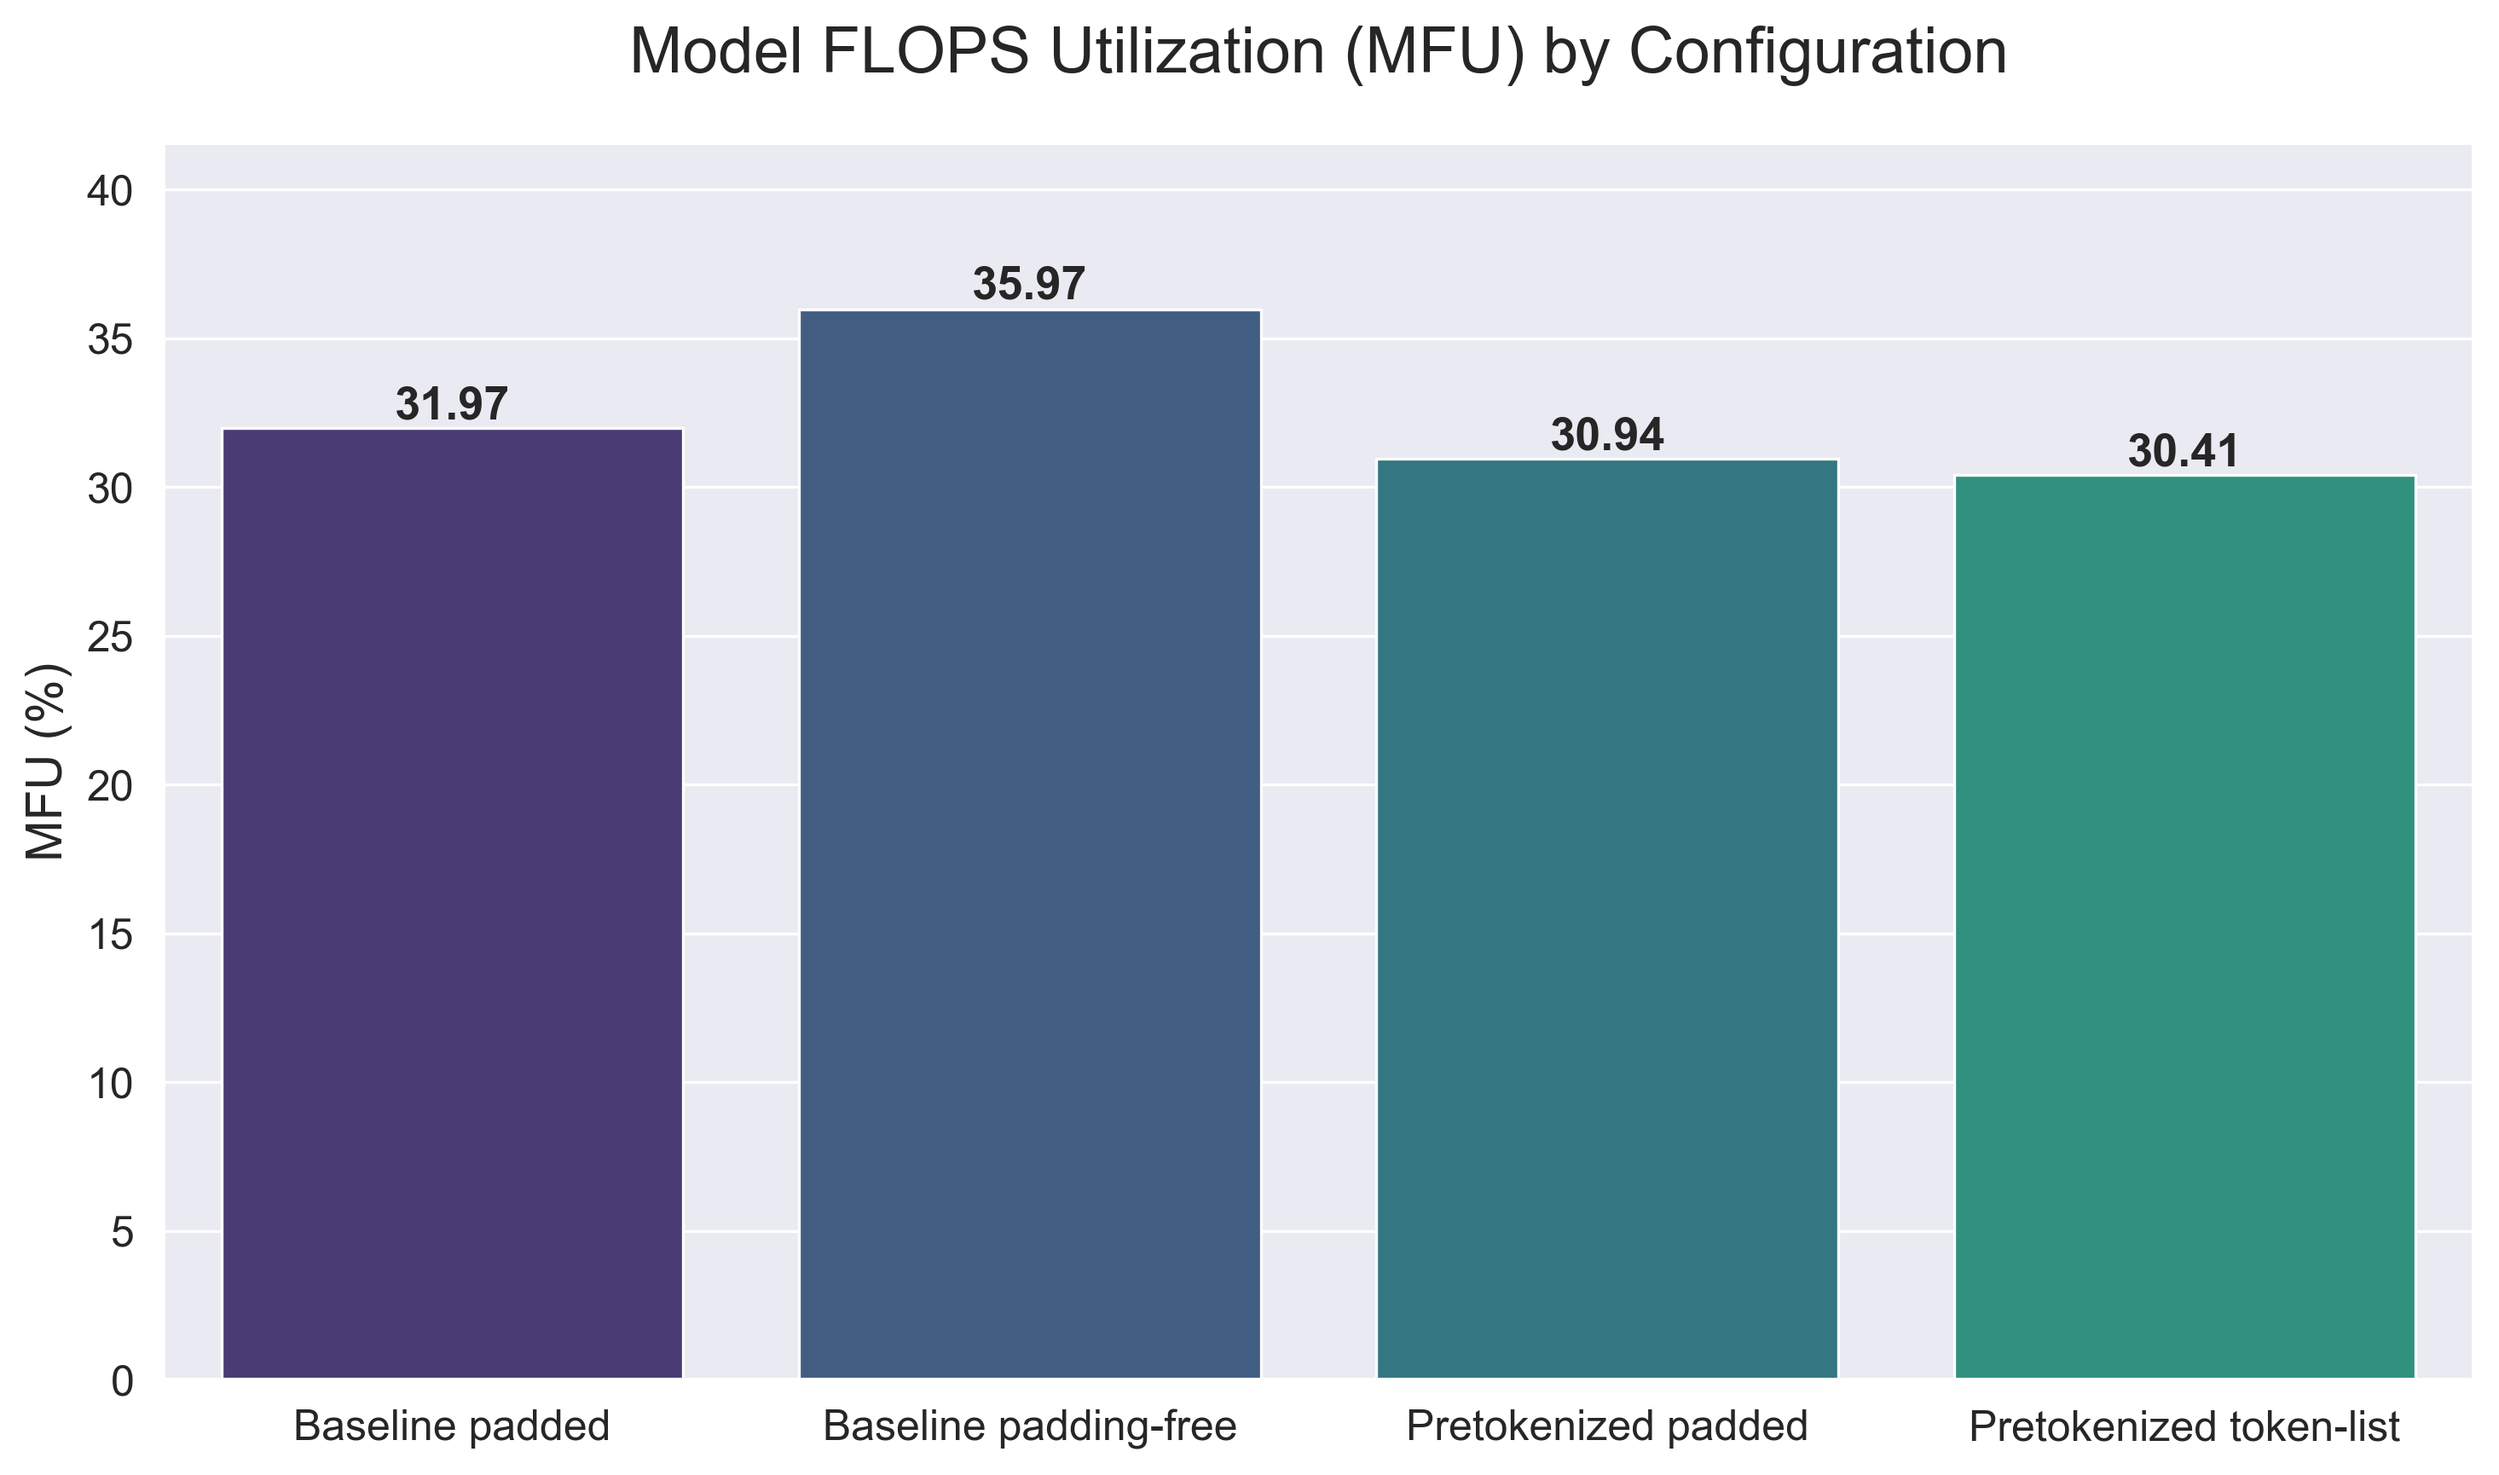
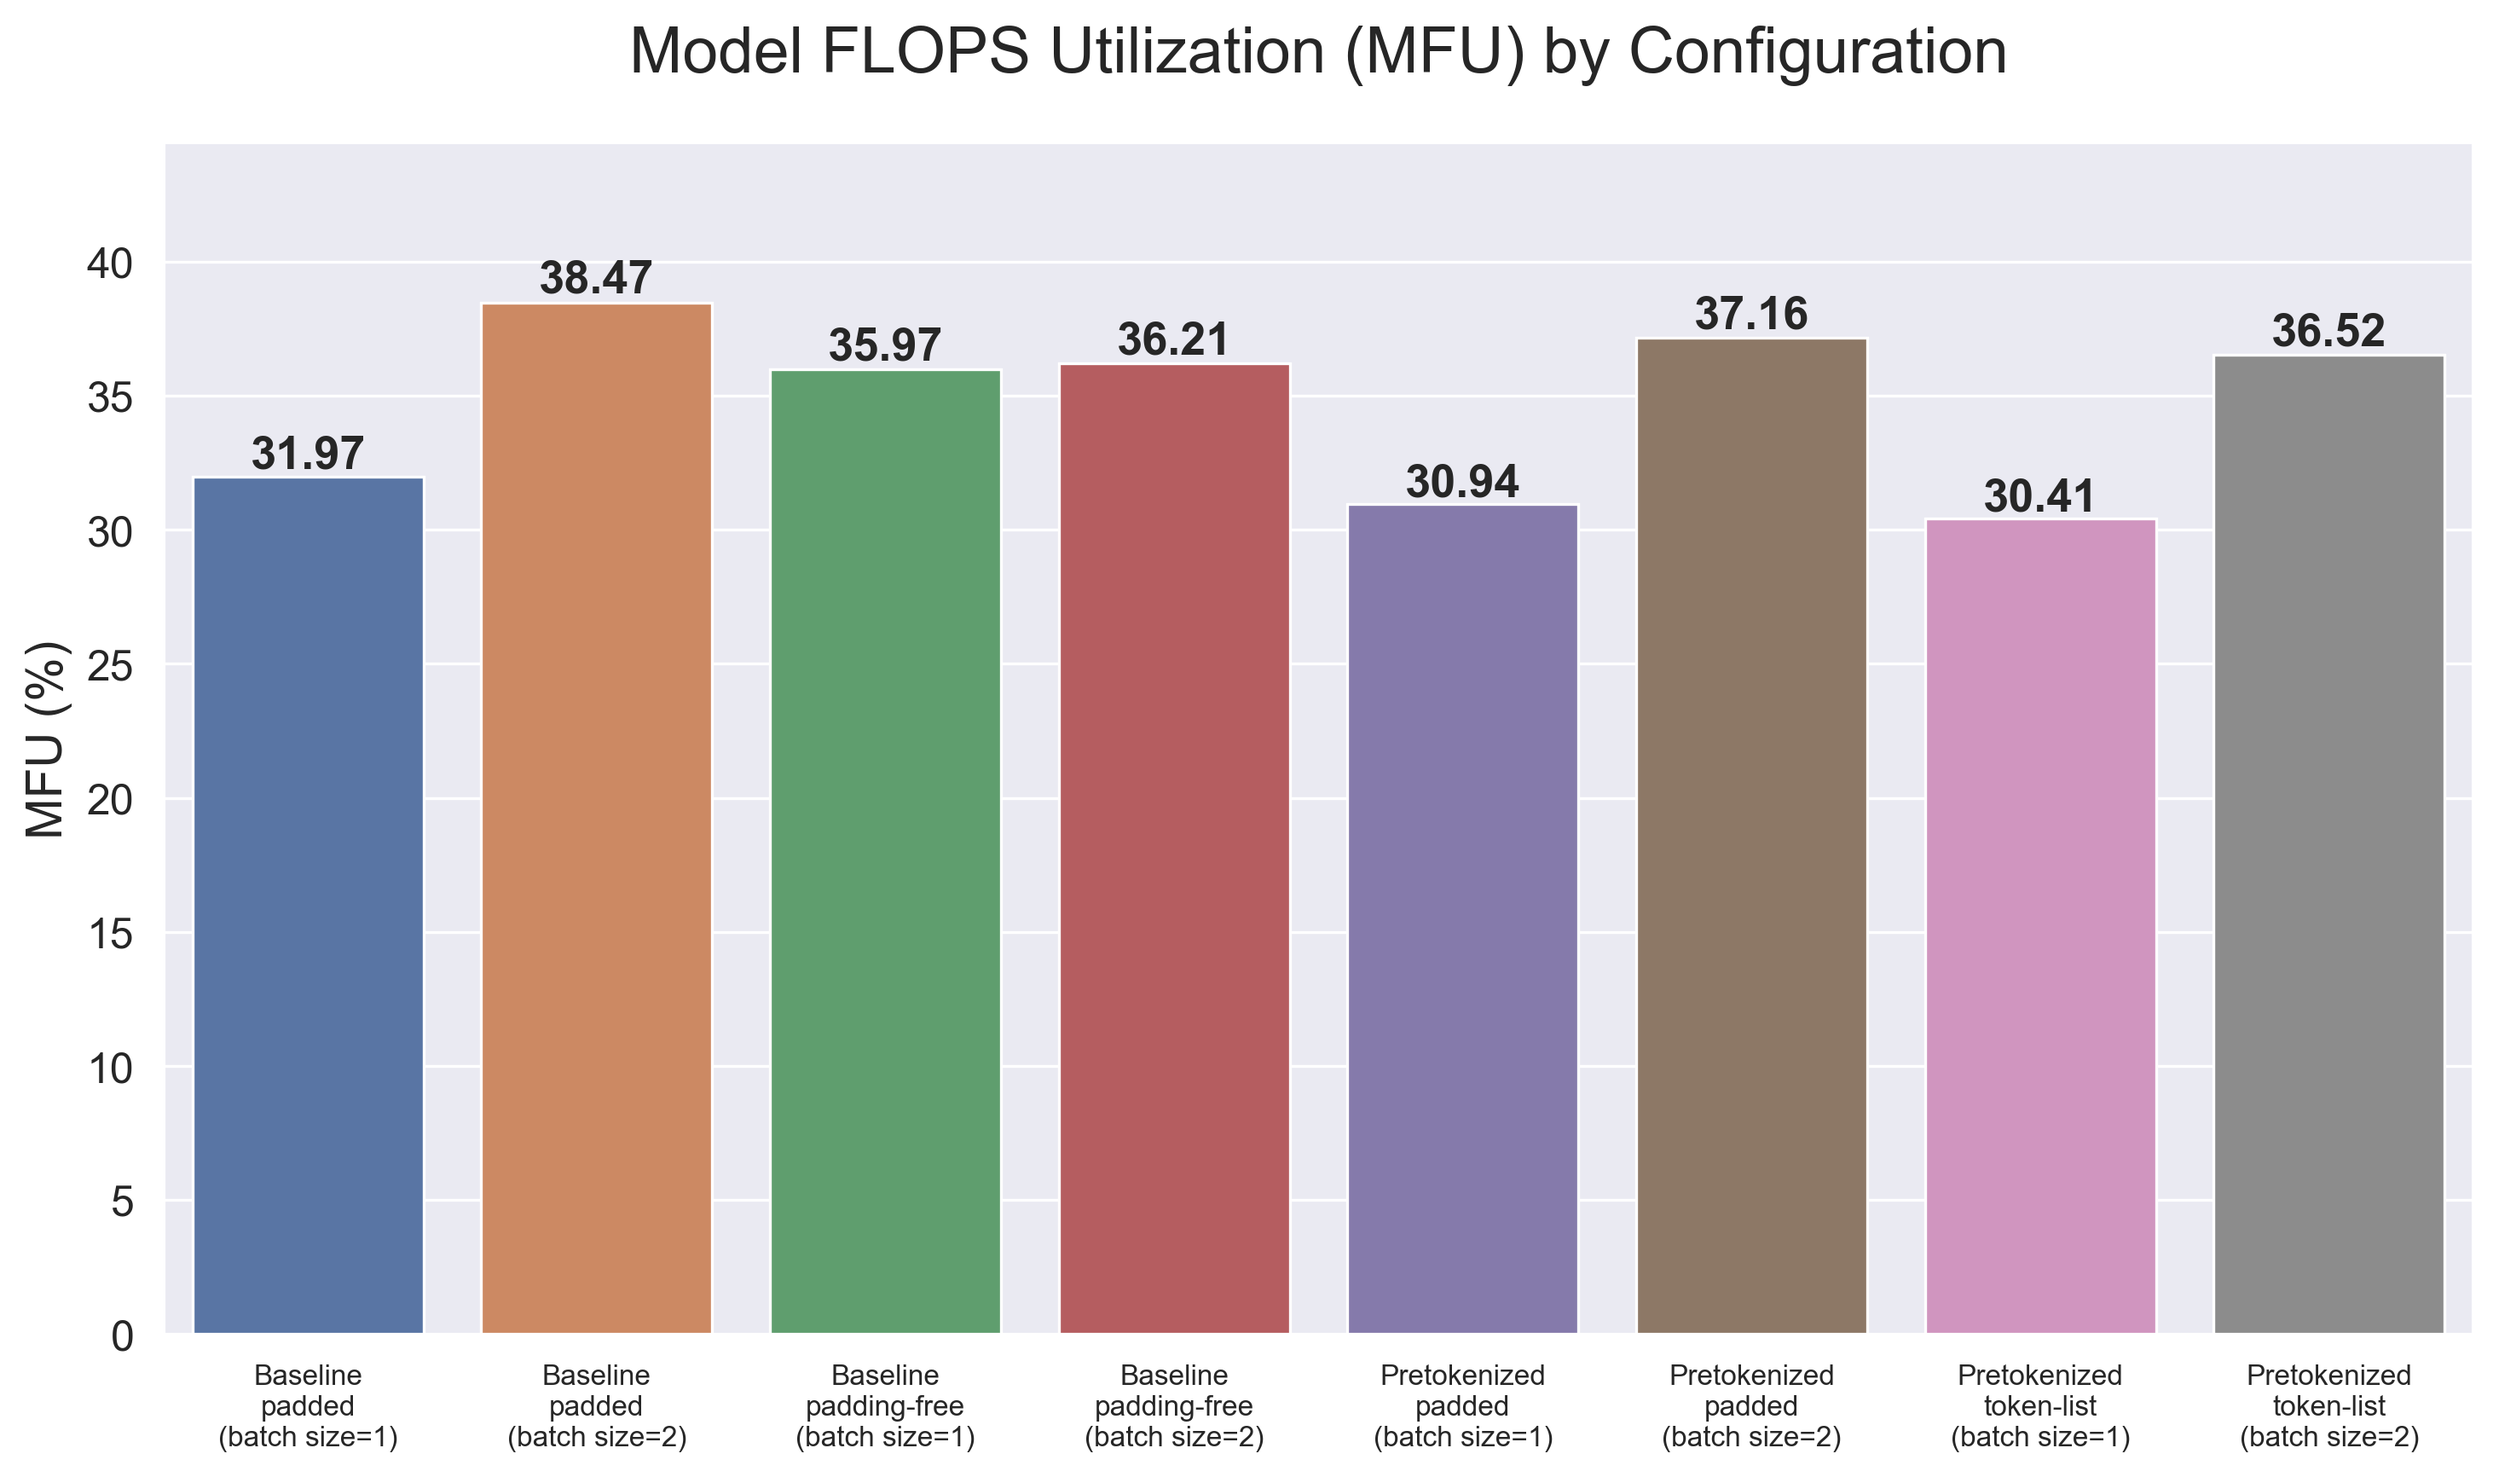
Enhance plotting functions: increase figure size, add batch size comparison plot

diff --git a/analysis/plotting.py b/analysis/plotting.py
@@ -137,7 +137,7 @@ def plot_time_series(results, metric_name, title, ylabel, filename, output_dir="
         filename (str): Output filename.
         output_dir (str): Directory to save the plot.
     """
-    plt.figure(figsize=(12, 6))
+    plt.figure(figsize=(16, 6))
     
     # Create the line plot
     for i, (config, metrics) in enumerate(results.items()):
@@ -205,7 +205,90 @@ def plot_efficiency_comparison(results, output_dir="plots"):
     
     fig.suptitle('Performance Comparison: Throughput and Efficiency', fontsize=18, y=1.05)
     plt.tight_layout()
-    plt.savefig(os.path.join(output_dir, 'efficiency_comparison.png'), dpi=300, bbox_inches='tight')
+    plt.savefig(os.path.join(output_dir, 'efficiency_comparison.png'), dpi=600, bbox_inches='tight')
+    plt.close()
+    
+    
+def plot_batch_comparison(results, output_dir="plots"):
+    """Create grouped bar charts comparing batch sizes within each approach."""
+    
+    # Define the approaches and their configurations
+    approaches = {
+        "Baseline Padded": ["Baseline padded (batch_size=1)", "Baseline padded (batch_size=2)"],
+        "Baseline Padding-Free": ["Baseline padding-free (batch_size=1)", "Baseline padding-free (batch_size=2)"],
+        "Pretokenized Padded": ["Pretokenized padded (batch_size=1)", "Pretokenized padded (batch_size=2)"],
+        "Pretokenized Token-List": ["Pretokenized token-list (batch_size=1)", "Pretokenized token-list (batch_size=2)"]
+    }
+    
+    # Create figure with subplots for tokens/sec and MFU
+    fig, (ax1, ax2) = plt.subplots(2, 1, figsize=(15, 12))
+    
+    # Define x positions for the groups
+    x = np.arange(len(approaches))
+    width = 0.35  # Width of the bars
+    
+    # Extract data
+    batch1_tokens = []
+    batch2_tokens = []
+    batch1_mfu = []
+    batch2_mfu = []
+    
+    for approach, configs in approaches.items():
+        if configs[0] in results:
+            batch1_tokens.append(results[configs[0]]['tokens_per_second'])
+            batch1_mfu.append(results[configs[0]]['mfu_percent'])
+        else:
+            batch1_tokens.append(0)
+            batch1_mfu.append(0)
+            
+        if configs[1] in results:
+            batch2_tokens.append(results[configs[1]]['tokens_per_second'])
+            batch2_mfu.append(results[configs[1]]['mfu_percent'])
+        else:
+            batch2_tokens.append(0)
+            batch2_mfu.append(0)
+    
+    # Plot tokens per second
+    ax1.bar(x - width/2, batch1_tokens, width, label='Batch Size = 1', color=PALETTE[-1])
+    ax1.bar(x + width/2, batch2_tokens, width, label='Batch Size = 2', color=PALETTE[-2])
+    
+    # Plot MFU
+    ax2.bar(x - width/2, batch1_mfu, width, label='Batch Size = 1', color=PALETTE[-1])
+    ax2.bar(x + width/2, batch2_mfu, width, label='Batch Size = 2', color=PALETTE[-2])
+    
+    # Add value labels
+    for i, v in enumerate(batch1_tokens):
+        ax1.text(i - width/2, v * 1.01, f'{v:.1f}', ha='center', fontsize=12)
+    for i, v in enumerate(batch2_tokens):
+        ax1.text(i + width/2, v * 1.01, f'{v:.1f}', ha='center', fontsize=12)
+        
+    for i, v in enumerate(batch1_mfu):
+        ax2.text(i - width/2, v * 1.01, f'{v:.1f}%', ha='center', fontsize=12)
+    for i, v in enumerate(batch2_mfu):
+        ax2.text(i + width/2, v * 1.01, f'{v:.1f}%', ha='center', fontsize=12)
+    
+    # Configure plot 1 (tokens per second)
+    ax1.set_ylabel('Tokens per Second', fontsize=14)
+    ax1.set_title('Throughput Comparison: Batch Size 1 vs. Batch Size 2', fontsize=16)
+    ax1.set_xticks(x)
+    ax1.set_xticklabels([])  # Hide x-labels for top plot
+    ax1.legend(fontsize=12)
+    
+    # Configure plot 2 (MFU)
+    ax2.set_ylabel('Model FLOPS Utilization (%)', fontsize=14)
+    ax2.set_title('Efficiency Comparison: Batch Size 1 vs. Batch Size 2', fontsize=16)
+    ax2.set_xticks(x)
+    ax2.set_xticklabels(approaches.keys(), fontsize=12)
+    ax2.legend(fontsize=12)
+    
+    # Extend the upper limit to make room for labels
+    for ax in [ax1, ax2]:
+        y_min, y_max = ax.get_ylim()
+        ax.set_ylim(y_min, y_max * 1.1)
+    
+    fig.suptitle('Performance Impact of Batch Size by Implementation Approach', fontsize=18)
+    plt.tight_layout()
+    plt.savefig(os.path.join(output_dir, 'batch_size_comparison.png'), dpi=600, bbox_inches='tight')
     plt.close()
 
 
@@ -294,3 +377,6 @@ def plot_results(log_files, output_dir="plots"):
         'loss_over_time.png',
         output_dir
     )
+    
+    # 7. Batch size comparison
+    plot_batch_comparison(results, output_dir)
